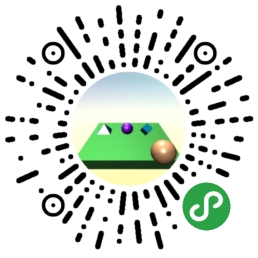
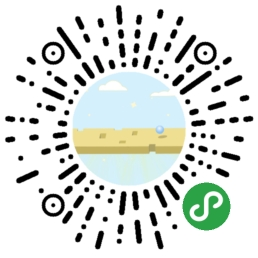
新增打赏，替换滚球logo

Changed region(s): [[0.2791, 0.2791, 0.7442, 0.7442]]

diff --git a/pages/about/releaseNote/releaseNote.js b/pages/about/releaseNote/releaseNote.js
@@ -15,6 +15,42 @@ const releaseNote = {
         name: 'div',
         children: [{
           type: 'text',
+          text: 'v2.2'
+        },
+        {
+          name: 'ul',
+          children: [
+            {
+              name: 'li',
+              attrs: {
+                style: 'font-size: 12px;'
+              },
+              children: [
+                {
+                  type: 'text',
+                  text: '新增打赏功能，感谢您的支持'
+                }
+              ]
+            },
+            {
+              name: 'li',
+              attrs: {
+                style: 'font-size: 12px;'
+              },
+              children: [
+                {
+                  type: 'text',
+                  text: '欢迎一起来玩《3D滚蛋吧》小游戏，可好玩了！'
+                }
+              ]
+            }
+          ]
+        }]
+      },
+      {
+        name: 'div',
+        children: [{
+          type: 'text',
           text: 'v2.1'
         },
         {

diff --git a/pages/about/support/support.js b/pages/about/support/support.js
@@ -74,5 +74,11 @@ Page({
 
   toRoll:function(){
     wx.navigateToMiniProgram({ appId: 'wxa6e870e9d665b10b'})
+  },
+
+  toReward: function () {
+    wx.previewImage({
+      urls: ["https://wycode.cn/upload/image/fish/reward.jpg"],
+    })
   }
 })
